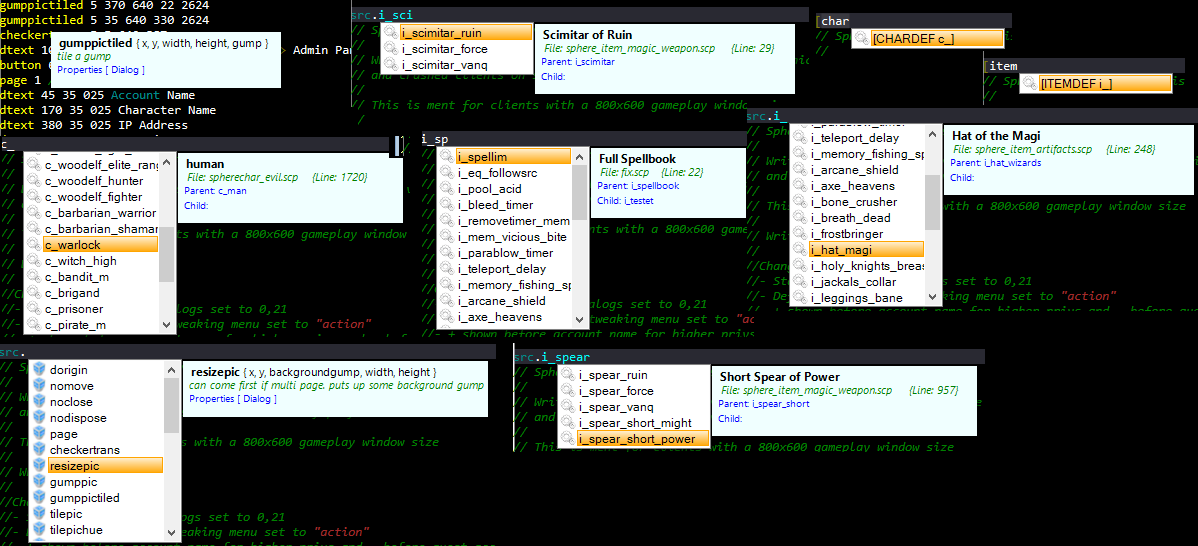
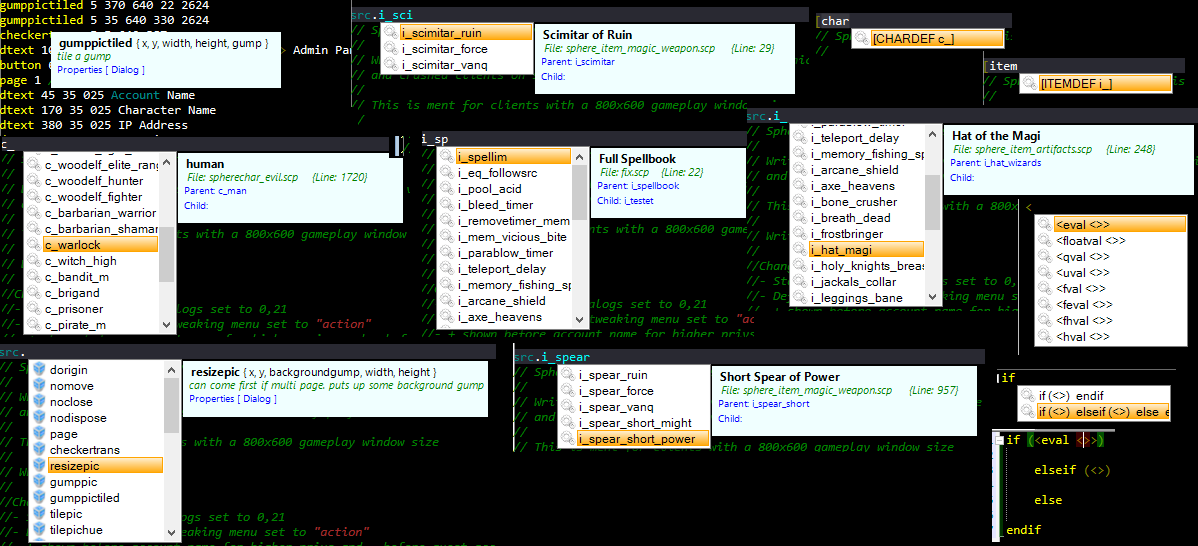
image updated

Changed region(s): [[0.8339, 0.3736, 1.0, 0.6538], [0.803, 0.685, 0.9883, 0.9963]]

diff --git a/REditor/FastColoredTextBoxNS/AutocompleteMenu.cs b/REditor/FastColoredTextBoxNS/AutocompleteMenu.cs
@@ -243,6 +243,19 @@ namespace FastColoredTextBoxNS
                                 visibleItems.AddRange(finded);
                             }
                         }
+                        else if (splited.Length == 1
+                          && text.StartsWith("if"))
+                        {
+                            finded = sourceItems
+                                  .Where(p => p.Text.ToLower().StartsWith(splited[0]))
+                                  .ToList();
+                            if (finded.Count > 0)
+                            {
+                                while (finded.Count >= 31)//max listed func
+                                    finded.RemoveAt(30);
+                                visibleItems.AddRange(finded);
+                            }
+                        }
                         else
                         {
                             //listing which are all
